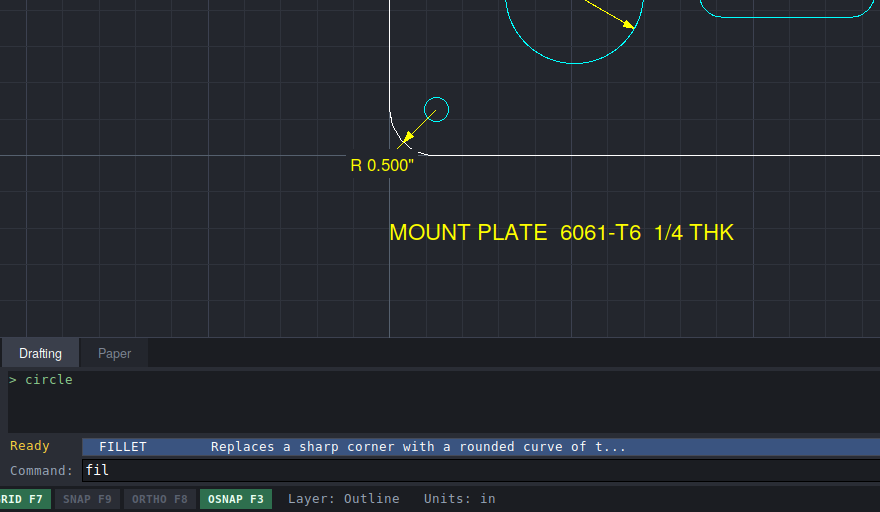
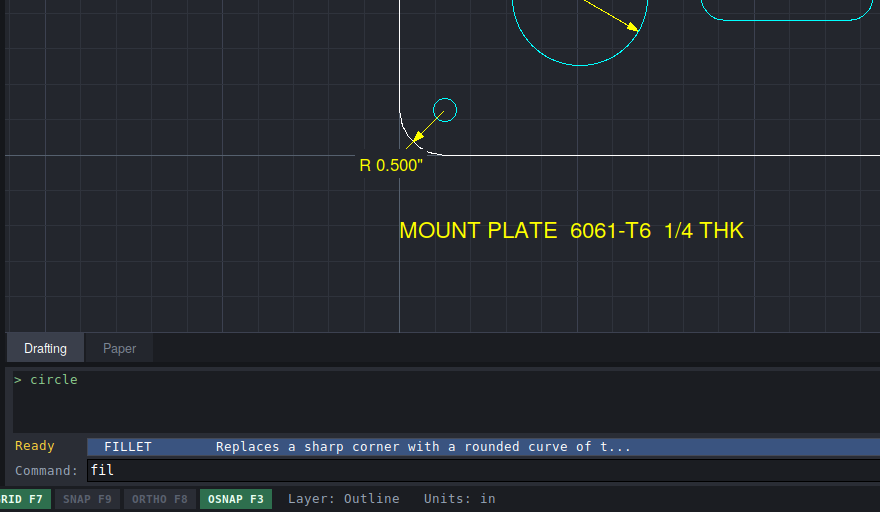
Add files via upload

diff --git a/releases.html b/releases.html
@@ -958,7 +958,38 @@ button.btn:disabled { opacity: 0.6; cursor: wait; }
     <p class="sub">Every change that ships, in plain language. Newest first.</p>
 
     <div class="rel-entry">
-      <p class="rel-ver">0.9.1-alpha<span class="rel-tag">CURRENT</span></p>
+      <p class="rel-ver">0.9.2-alpha<span class="rel-tag">CURRENT</span></p>
+      <p class="rel-date">UPDATE &nbsp;&middot;&nbsp; INTERFACE AND UPDATES</p>
+
+      <h3>New</h3>
+      <ul>
+        <li>Resize the left panel, the toolbar and the command line by dragging the dividers between them. A guide line follows the mouse, the layout changes once when you let go, and every divider stops at its panel's smallest and largest size. <b>View &rarr; Reset Panel Sizes</b> puts everything back.</li>
+        <li>Resize each toolbar column (Draw, Modify, Measure) on its own. It snaps to whole icon columns, and dragging the toolbar's lower edge sets how many rows of icons there are.</li>
+        <li>Toolbar icons scale from 12 to 48 pixels: hold <b>Ctrl</b> and scroll over the toolbar, or use <b>Settings &rarr; Preferences</b>. By default they match your screen, so they're larger on high-resolution displays.</li>
+        <li>The left panel rearranges itself to fit, and the layer list sizes itself to your layers.</li>
+        <li><b>Update Now</b> installs updates for you: it downloads the new version, checks it, replaces the old one and reopens PyDraft.</li>
+        <li><b>Help &rarr; What's New</b> lists every change by version, and opens by itself after an update.</li>
+        <li>A thank-you message the first time PyDraft is opened, with your tester ID ready to copy and a button to register it.</li>
+      </ul>
+
+      <h3>Changed</h3>
+      <ul>
+        <li>A drawing can have up to 20 layers. Opening or importing a file with more moves the objects on the extra layers to layer 0 and tells you.</li>
+        <li>The layer <b>Color</b> button steps the selected layer through 10 colors, one per click, and each layer's name is shown in its color.</li>
+        <li>The "History lines shown" preference is gone; drag the top of the command line instead.</li>
+      </ul>
+
+      <h3>Fixed</h3>
+      <ul>
+        <li>Clicking the Paper tab works again.</li>
+        <li>Only four of the eight draw colors fit in the left panel; all eight are shown now.</li>
+        <li>Applying Preferences no longer snaps the window back to its starting size.</li>
+        <li>Clicking a layer button no longer loses the highlighted layer.</li>
+      </ul>
+    </div>
+
+    <div class="rel-entry">
+      <p class="rel-ver">0.9.1-alpha</p>
       <p class="rel-date">UPDATE</p>
 
       <h3>Changed</h3>

diff --git a/privacy.html b/privacy.html
@@ -955,9 +955,9 @@ button.btn:disabled { opacity: 0.6; cursor: wait; }
 
   <div class="page">
     <h2>Privacy</h2>
-    <p class="sub">Last updated 27 September 2026 &nbsp;&middot;&nbsp; Applies to PyDraft 0.9.1-alpha</p>
+    <p class="sub">Last updated 27 September 2026 &nbsp;&middot;&nbsp; Applies to PyDraft 0.9.2-alpha</p>
 
-    <p>PyDraft runs on your computer. It has no account system, no analytics, and no background telemetry. There are exactly two times the program touches the network, both listed below, and one of them only happens when you press a button.</p>
+    <p>PyDraft runs on your computer. It has no account system, no analytics, and no background telemetry. There are exactly three times the program touches the network, all listed below, and two of them only happen when you press a button.</p>
 
     <h3>1. The update check</h3>
     <p>When PyDraft starts, it requests a small text file from the PyDraft website to see whether a newer version exists. The request contains nothing about you or your drawing. As with any web request, the server can see your IP address and the version string in the user agent (for example <code>PyDraft/0.9-alpha</code>). Nothing is logged against an identity because there is no identity to log it against.</p>
@@ -995,6 +995,9 @@ button.btn:disabled { opacity: 0.6; cursor: wait; }
     </table>
 
     <p>If you would rather see the report before it leaves your machine, press <b>Copy Report</b> instead of Send. That puts the entire contents on your clipboard so you can read it, edit it, and send it however you like.</p>
+
+    <h3>3. Installing an update, only when you click Update Now</h3>
+    <p>If you choose <b>Update Now</b>, PyDraft downloads the new <code>PyDraft.exe</code> and its fingerprint file (<code>SHA256.txt</code>) from the project's GitHub releases page, checks that they match, and replaces the old version on your computer. As with any download, GitHub can see your IP address. Nothing about you or your drawings is sent. If you never click Update Now, this never happens.</p>
 
     <h3>What is never collected</h3>
     <ul>

diff --git a/index.html b/index.html
@@ -975,7 +975,7 @@ button.btn:disabled { opacity: 0.6; cursor: wait; }
             <a class="btn primary" href="https://github.com/CNC4U/pydraft-site/releases/latest/download/PyDraft.exe">Download for Windows</a>
             <a class="btn" href="#formats">See what it exports</a>
           </p>
-          <p class="dlnote">Version 0.9.1-alpha &nbsp;&middot;&nbsp; 11.4 MB &nbsp;&middot;&nbsp; Windows 10 &amp; 11<br>
+          <p class="dlnote">Version 0.9.2-alpha &nbsp;&middot;&nbsp; 11.4 MB &nbsp;&middot;&nbsp; Windows 10 &amp; 11<br>
           Windows may warn about an unknown publisher. Choose <b>More info &rarr; Run anyway</b>. That is normal for independent software that is not code-signed yet.</p>
         </td>
         <td class="herobox">
@@ -1042,7 +1042,7 @@ button.btn:disabled { opacity: 0.6; cursor: wait; }
               </td>
             </tr>
           </table>
-          <p class="shotnote">Actual screenshots of version 0.9.1-alpha; the bottom two are close-ups. Click any image to open it.</p>
+          <p class="shotnote">Actual screenshots of version 0.9.2-alpha; the bottom two are close-ups. Click any image to open it.</p>
         </div>
 
         <div class="secbar">Tools Included</div>
@@ -1194,7 +1194,7 @@ button.btn:disabled { opacity: 0.6; cursor: wait; }
           <table>
             <tr>
               <td class="dlleft">
-                <h4>PyDraft 0.9.1-alpha for Windows</h4>
+                <h4>PyDraft 0.9.2-alpha for Windows</h4>
                 <p>Single executable, 11.4 MB. Nothing to install &mdash; download it, double-click it, draw something.<br>
                 Source code also available for macOS and Linux.</p>
               </td>
